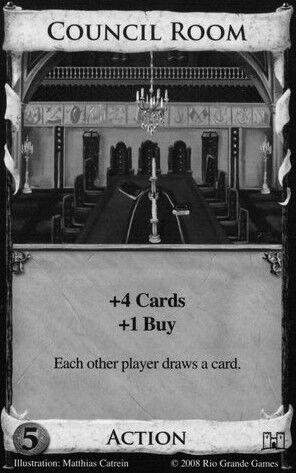
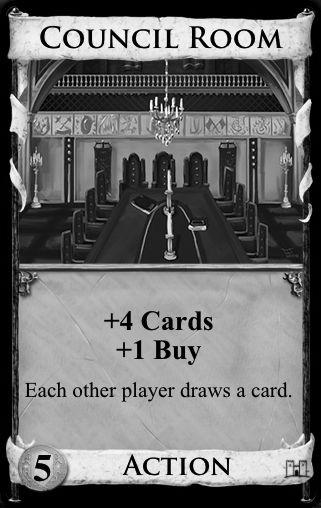
better pic images (with cost and type) + png -> jpeg

diff --git a/images/_generate_pics.py b/images/_generate_pics.py
@@ -1,5 +1,4 @@
 import os
-
 from glob import glob
 
 from PIL import Image
@@ -8,29 +7,57 @@ import numpy as np
 
 def generate_pic(filename):
     top = 5
-    height = 272
+    bottom = 272
     left = 5
     width = 315
 
+    top2 = 440
+    bottom2 = 500
+
     im = Image.open(filename)
     d = np.asarray(im)
-    d = d[top:height, left:width]
-
-    return Image.fromarray(d)
-
-
-for f in glob('*.png'):
-    if f.endswith('_gray.png') or f.endswith('_pic.png'):
-        continue
-
-    filename = f.replace('.png', '_pic.png')
-    if os.path.isfile(filename):
-        continue
-
-    pic = generate_pic(f)
-    pic.show()
-
-    pic.save(filename)
+    d1 = d[top:bottom, left:width]
+    d2 = d[top2:bottom2, left:width]
+    dd = np.vstack((d1, d2))
+    return Image.fromarray(dd)
 
 
+def main():
+    files = glob('*.jpg')
+    for f in files:
+        if f.endswith('_gray.jpg') or f.endswith('_pic.jpg'):
+            continue
 
+        filename = f.replace('.jpg', '_pic.jpg')
+        if os.path.isfile(filename):
+            continue
+
+        pic = generate_pic(f)
+        pic.show()
+
+        pic.save(filename)
+
+
+def show_pics():
+    for f in glob('*_pic.jpg'):
+        im = Image.open(f)
+        im.show()
+
+
+def convert_png_to_jpg():
+    files = glob('*.png')
+    for f in files:
+        im = Image.open(f)
+        im.load()
+        background = Image.new("RGB", im.size, (255, 255, 255))
+        try:
+            background.paste(im, mask=im.split()[3])  # 3 is the alpha channel
+        except:
+            background = im
+            background.convert('RGB')
+        background.save(f.replace('.png', '.jpg'), 'JPEG', quality=80)
+
+if __name__ == '__main__':
+    #show_pics()
+    #convert_png_to_jpg()
+    main()

diff --git a/images/_grayscale_images.py b/images/_grayscale_images.py
@@ -11,8 +11,8 @@ for ext in 'png jpg'.split():
 
         img = Image.open(f).convert('LA')
         new_filename = f.replace(f'.{ext}', f'_gray.{ext}')
-        if os.path.exists(new_filename):
-            continue
+        # if os.path.exists(new_filename):
+        #     continue
         img2 = ImageOps.grayscale(img)
         img2.show()
         img2.save(new_filename)
